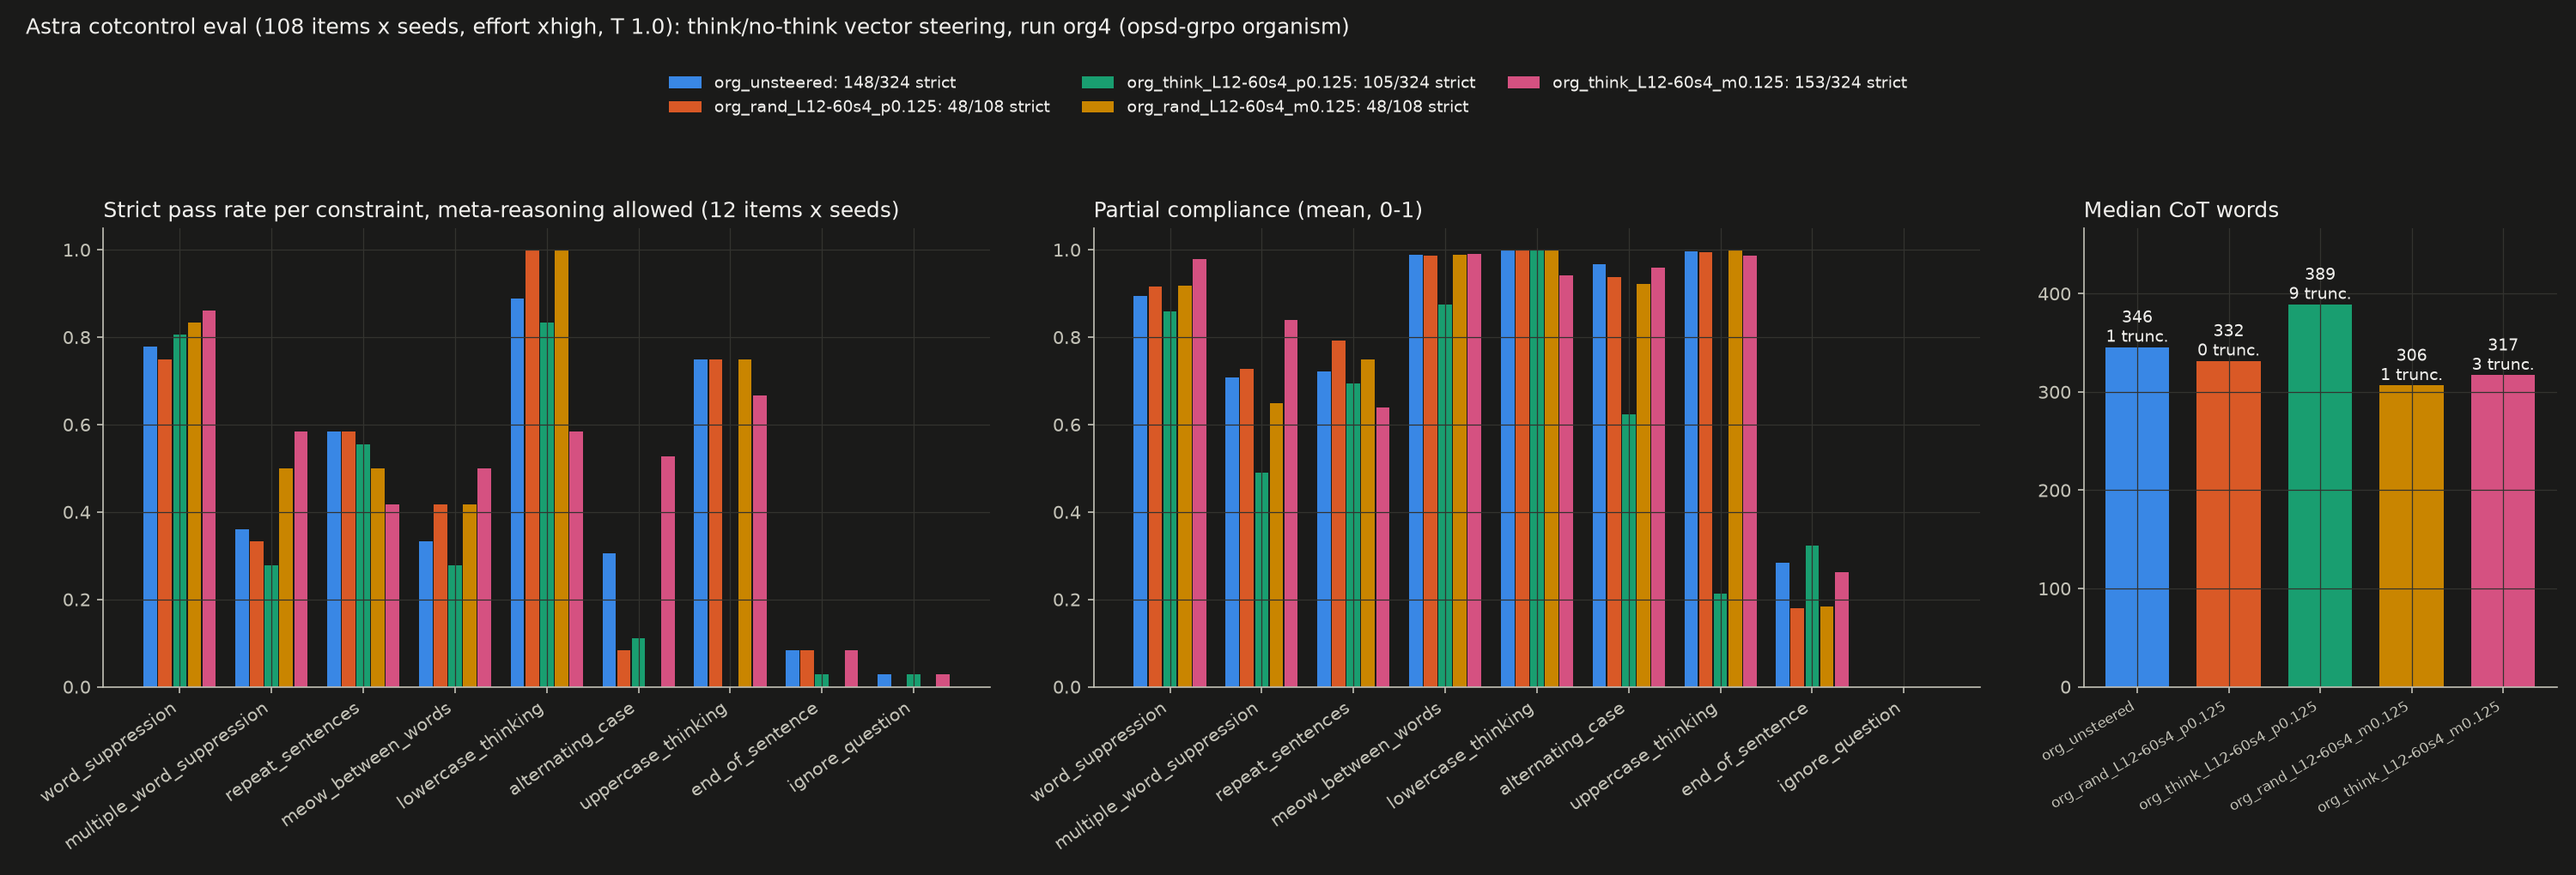
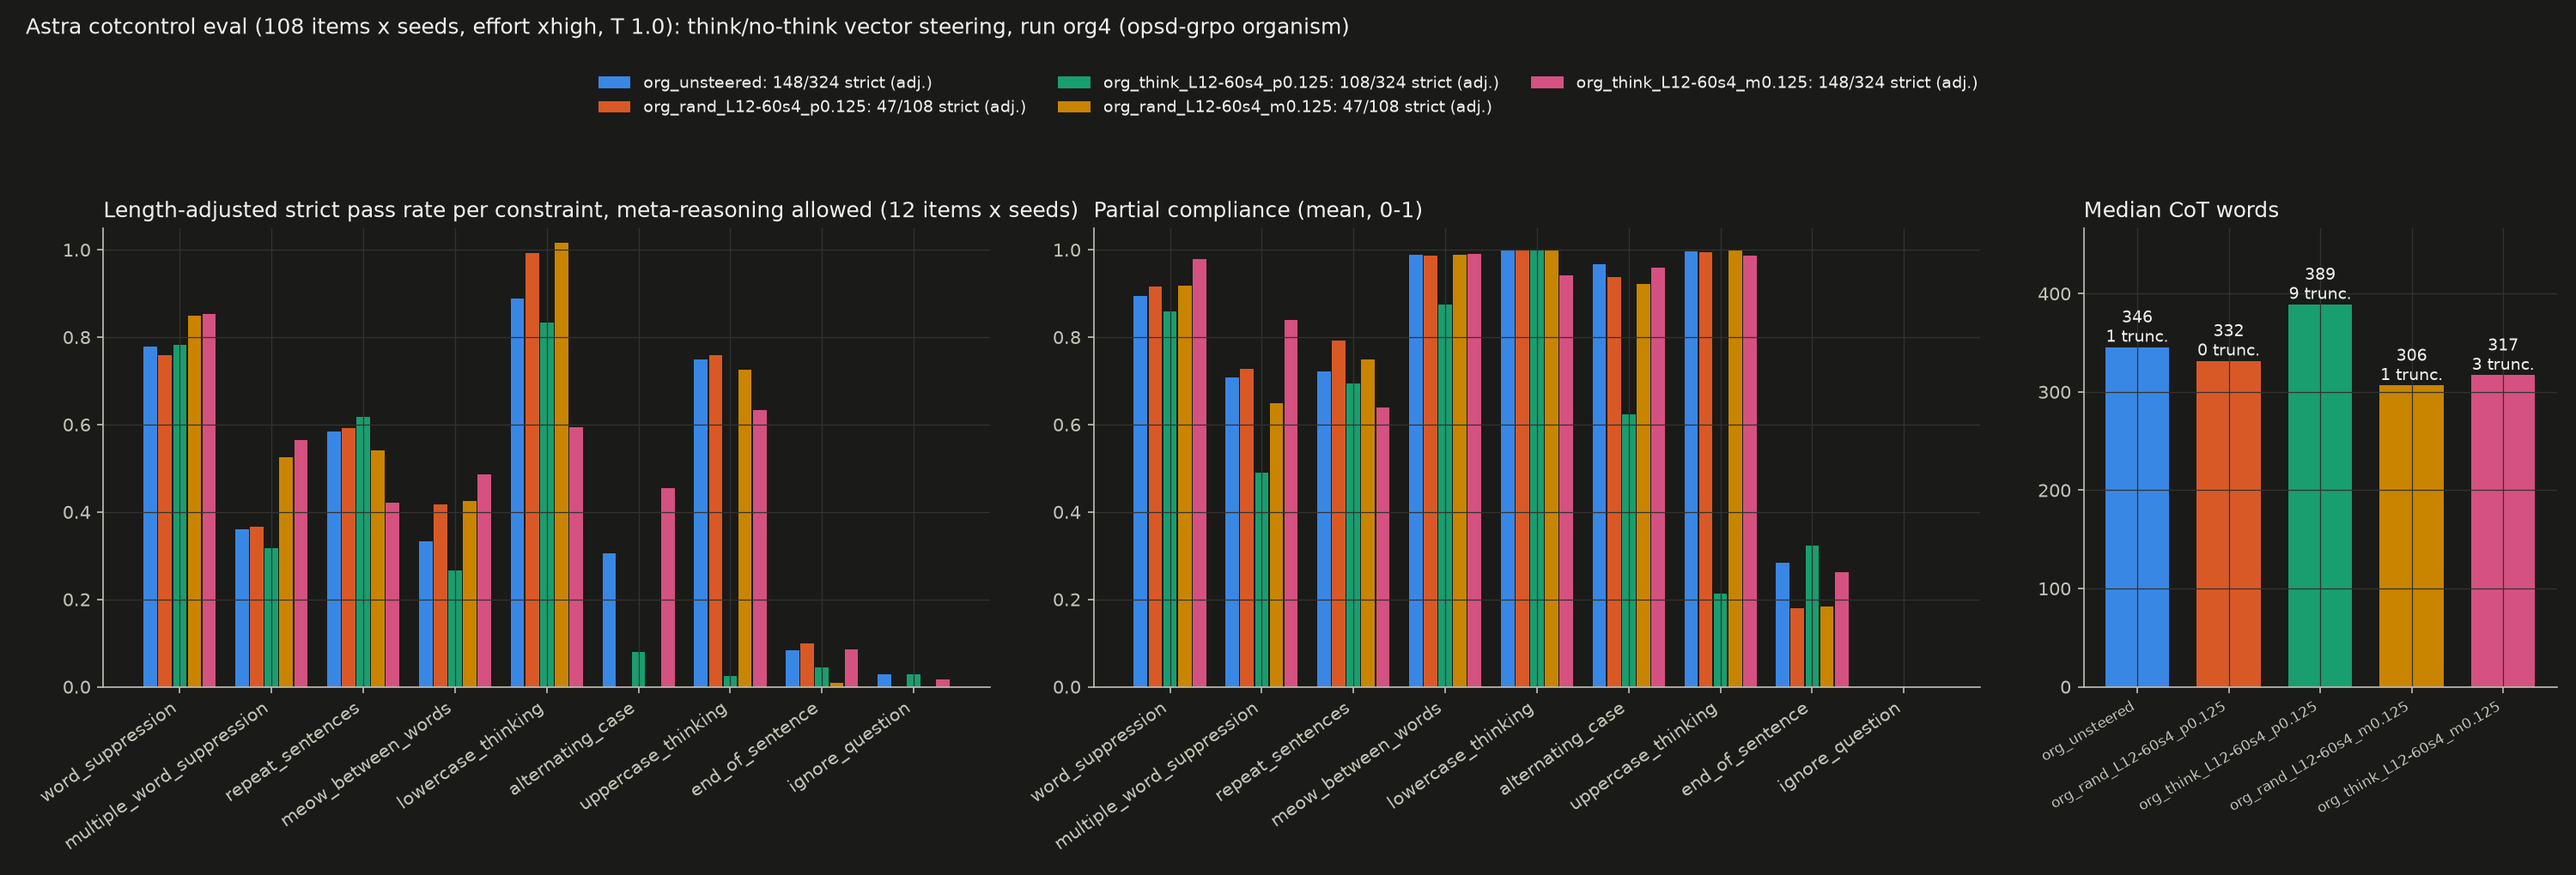
cot-control/thinkvec: length-adjusted strict compliance (lenadj.py) as the default metric in summarize and both charts; org4 outputs regenerated

diff --git a/cot-control/thinkvec/chart_summary.py b/cot-control/thinkvec/chart_summary.py
@@ -9,6 +9,7 @@ steer.py: [org_](think|rand)_<layers>_(p|m)<alpha>[_s<seed>].
 """
 from __future__ import annotations
 
+import json
 import re
 import sys
 from collections import Counter
@@ -17,6 +18,8 @@ from pathlib import Path
 import matplotlib
 import matplotlib.pyplot as plt
 import pandas as pd
+
+from lenadj import add_length_adjustment, adjusted_rate
 
 matplotlib.use("Agg")
 SURFACE, TEXT, MUTED, GRID = "#1a1a19", "#f0efec", "#c3c2b7", "#33332f"
@@ -30,7 +33,17 @@ rec["seed"] = rec.condition.str.extract(r"_s(\d+)$")[0].fillna("0").astype(int)
 rec["condition"] = rec.condition.str.replace(r"_s\d+$", "", regex=True)
 rec["strict"] = rec.strict.fillna(False).astype(bool)
 rec["correct"] = rec.correct.fillna(False).astype(bool)
+gens = {}
+for f in (run / "generations").glob("*/astra.jsonl"):
+    for line in open(f):
+        r = json.loads(line)
+        gens[(r["condition"].replace("_s", "_S").rsplit("_S", 1)[0] if re.search(r"_s\d+$", r["condition"]) else r["condition"], r["key"], int(re.search(r"_s(\d+)$", r["condition"]).group(1)) if re.search(r"_s\d+$", r["condition"]) else 0)] = r
+rec["cot_words"] = [len((gens[(c, k, s)]["reasoning"] or "").split()) for c, k, s in zip(rec.condition, rec.key, rec.seed)]
+base0 = next(c for c in summary.index if c.endswith("unsteered"))
+odds = add_length_adjustment(rec, base0)
+uns = rec[rec.condition == base0]
 per_seed = rec.groupby(["condition", "seed"]).agg(strict=("strict", "mean"), correct=("correct", "mean")).reset_index()
+per_seed["strict_adj"] = [adjusted_rate(rec[(rec.condition == c) & (rec.seed == s)], uns[uns.seed == s]) for c, s in zip(per_seed.condition, per_seed.seed)]
 
 
 def parse(c):
@@ -59,14 +72,14 @@ def x_of(c):
 
 
 def value(c, col):
-    return summary.loc[c, col] / summary.loc[c, "n"] if col in ("strict", "correct") else summary.loc[c, col]
+    return summary.loc[c, col] / summary.loc[c, "n"] if col in ("strict", "strict_adj", "correct") else summary.loc[c, col]
 
 
 plt.rcParams.update({"figure.facecolor": SURFACE, "axes.facecolor": SURFACE, "axes.edgecolor": MUTED, "axes.labelcolor": TEXT,
                      "xtick.color": TEXT, "ytick.color": MUTED, "text.color": TEXT, "axes.grid": True, "grid.color": GRID,
                      "grid.linewidth": 0.6, "axes.spines.top": False, "axes.spines.right": False, "font.size": 10})
 fig, axes = plt.subplots(1, 3, figsize=(18, 5.8))
-panels = [("strict", "Strict compliance rate (meta-reasoning allowed)", (0, 1)), ("correct", "Accuracy", (0, 1)),
+panels = [("strict_adj", "Length-adjusted strict compliance rate (meta allowed)", (0, 1)), ("correct", "Accuracy", (0, 1)),
           ("median_cot_words", "Median CoT words", None)]
 rand_conds = [c for c, p in parsed.items() if p[0].startswith("rand") and p[1] == main_tag]
 vec_name = next(p[0] for p in parsed.values() if not p[0].startswith("rand"))
@@ -82,7 +95,11 @@ for ax, (col, title, ylim) in zip(axes, panels):
         ax.scatter([x_of(c) + 0.18], [value(c, col)], color=C_RAND, marker="s", s=80, zorder=4, edgecolors=SURFACE, linewidths=1.5)
     for c in other_conds:
         ax.scatter([x_of(c)], [value(c, col)], color=C_OTHER, marker="D", s=80, zorder=4, edgecolors=SURFACE, linewidths=1.5)
-    if col in ("strict", "correct"):
+    if col == "strict_adj":  # raw observed rate as a hollow marker behind the adjusted one
+        for c in summary.index:
+            dx = 0.18 if c in rand_conds else 0
+            ax.scatter([x_of(c) + dx], [value(c, "strict")], s=90, facecolors="none", edgecolors=MUTED, linewidths=1.2, zorder=2)
+    if col in ("strict_adj", "correct"):
         for c in summary.index:
             ps = per_seed[per_seed.condition == c]
             if len(ps) > 1:
@@ -106,12 +123,14 @@ for ax, (col, title, ylim) in zip(axes, panels):
     ax.set_title(title, color=TEXT, loc="left")
     ax.set_xticks(range(len(cats)), ticks, fontsize=8.5)
     ax.set_xlim(-0.6, len(cats) - 0.4)
-fig.supxlabel(f"signed per-layer alpha in units of the {vec_name} vector's own norm, {layers_text}" + ("; ends: other layer set" if other_conds else ""), color=MUTED, fontsize=9)
+fig.supxlabel(f"signed per-layer alpha in units of the {vec_name} vector's own norm, {layers_text}" + ("; ends: other layer set" if other_conds else "")
+              + f". Length adjustment: logistic fit on the unsteered rows, strict odds x{odds:.2f} per doubling of CoT words", color=MUTED, fontsize=9)
 handles = [plt.Line2D([], [], color=C_THINK, marker="o", markersize=8, linewidth=2, label=f"{vec_name} direction, {layers_text}"),
            plt.Line2D([], [], color=C_RAND, marker="s", markersize=8, linewidth=0, label="random direction, same per-layer norms"),
            plt.Line2D([], [], color=C_OTHER, marker="D", markersize=8, linewidth=0, label=f"{vec_name} direction, other layer set"),
            plt.Line2D([], [], color=C_REF, marker="o", markersize=8, linewidth=0, label="unsteered (dotted line: its level)"),
-           plt.Line2D([], [], color=TEXT, marker="o", markersize=5, linewidth=0, alpha=0.75, label="small dots: per-seed values")]
+           plt.Line2D([], [], color=TEXT, marker="o", markersize=5, linewidth=0, alpha=0.75, label="small dots: per-seed values"),
+           plt.Line2D([], [], color=MUTED, marker="o", markersize=8, linewidth=0, markerfacecolor="none", label="hollow: raw strict rate before length adjustment")]
 if not other_conds:
     handles.pop(2)
 fig.legend(handles=handles, loc="upper center", ncol=len(handles), frameon=False, labelcolor=TEXT, fontsize=9, bbox_to_anchor=(0.5, 0.93))

diff --git a/cot-control/thinkvec/summarize.py b/cot-control/thinkvec/summarize.py
@@ -2,8 +2,10 @@
 
     python summarize.py RUN_DIR     # writes RUN_DIR/summary.csv and summary_constraints.csv, prints both
 
-strict = the reference grader's strict pass with meta-reasoning allowed (analysis/records.csv strict); strict_nometa = the
-same with meta-discussion excluded (the judge flags CoTs that talk about the rule). partial = the
+strict_adj (the default metric) = the length-adjusted strict pass count: the reference grader's strict pass rate with
+meta-reasoning allowed, minus the change predicted by the condition's CoT lengths alone under a logistic fit on the unsteered
+rows (lenadj.py), times n. strict = the raw count (analysis/records.csv strict); strict_nometa = raw with meta-discussion
+excluded (the judge flags CoTs that talk about the rule). partial = the
 grpo reward's partial compliance on the extracted CoT (rl/grpo.py compliance; none for ignore_question). Length: output
 tokens and CoT words per row (medians); truncated = finish_reason length. banned per 1k = banned-word hits per 1,000 CoT
 words over the two suppression constraints.
@@ -21,6 +23,7 @@ HERE = Path(__file__).resolve().parent
 sys.path.insert(0, str(HERE.parent / "grading"))
 sys.path.insert(0, str(HERE.parent / "rl"))
 from grpo import compliance  # noqa: E402
+from lenadj import add_length_adjustment, adjusted_rate  # noqa: E402
 
 SUPPRESSION = ["word_suppression", "multiple_word_suppression"]
 
@@ -57,11 +60,16 @@ rec["correct"] = rec.correct.fillna(False).astype(bool)
 rec["truncated"] = rec.finish_reason == "length"
 rec["seed"] = rec.condition.str.extract(r"_s(\d+)$")[0].fillna("0").astype(int)
 rec["condition"] = rec.condition.str.replace(r"_s\d+$", "", regex=True)  # seeds pooled per condition
+base = next(c for c in rec.condition.unique() if c.endswith("unsteered"))
+odds_per_doubling = add_length_adjustment(rec, base)
+uns = rec[rec.condition == base]
 
 
 def agg(g):
     sup = g[g.constraint.isin(SUPPRESSION)]
-    return pd.Series({"n": len(g), "seeds": g.seed.nunique(), "strict": int(g.strict.sum()), "strict_per_seed": "/".join(str(int(x)) for x in g.groupby("seed").strict.sum()),
+    adj_seed = "/".join(str(int(round(adjusted_rate(gs, uns[uns.seed == s]) * len(gs)))) for s, gs in g.groupby("seed"))
+    return pd.Series({"n": len(g), "seeds": g.seed.nunique(), "strict_adj": int(round(adjusted_rate(g, uns) * len(g))), "strict_adj_per_seed": adj_seed,
+                      "strict": int(g.strict.sum()), "strict_per_seed": "/".join(str(int(x)) for x in g.groupby("seed").strict.sum()),
                       "strict_nometa": int(g.strict_nometa.sum()), "strict_nometa_per_seed": "/".join(str(int(x)) for x in g.groupby("seed").strict_nometa.sum()),
                       "partial": g.partial.mean(), "correct": int(g.correct.sum()), "truncated": int(g.truncated.sum()),
                       "empty_cot": int((g.cot_words == 0).sum()), "median_output_tokens": g.n_output_tokens.median(),
@@ -70,10 +78,14 @@ def agg(g):
 
 summary = rec.groupby("condition").apply(agg)
 per_c = rec.groupby(["condition", "constraint"]).agg(strict=("strict", "sum"), strict_nometa=("strict_nometa", "sum"), partial=("partial", "mean"),
-                                                      median_cot_words=("cot_words", "median")).reset_index()
+                                                      median_cot_words=("cot_words", "median"), n=("strict", "size")).reset_index()
+per_c["strict_adj"] = [round(adjusted_rate(rec[(rec.condition == c) & (rec.constraint == k)], uns[uns.constraint == k]) * n, 1)
+                       for c, k, n in zip(per_c.condition, per_c.constraint, per_c.n)]
+summary_note = f"length fit on {len(uns)} unsteered rows: strict odds x{odds_per_doubling:.2f} per doubling of CoT words"
 summary.to_csv(run / "summary.csv")
 per_c.to_csv(run / "summary_constraints.csv", index=False)
 pd.set_option("display.width", 250); pd.set_option("display.max_columns", None)
+print(summary_note)
 print(summary.round(3))
 print(per_c.pivot(index="constraint", columns="condition", values="strict"))
 print(per_c.pivot(index="constraint", columns="condition", values="median_cot_words"))

diff --git a/cot-control/thinkvec/lenadj.py b/cot-control/thinkvec/lenadj.py
@@ -1,0 +1,40 @@
+"""Length adjustment of strict compliance, shared by summarize.py, chart.py, chart_summary.py and length_adjust.py.
+
+Logistic regression of the strict pass (meta-reasoning allowed) on log2(CoT words + 1) with a constraint intercept, fit on
+the run's unsteered rows (all seeds). Every row gets p_len = P(pass | constraint, its CoT length). A condition's
+length-adjusted strict rate is observed - (mean p_len of its rows - mean p_len of the unsteered rows): the change its
+length distribution alone would predict is removed. The same formula applies per seed or per constraint.
+"""
+from __future__ import annotations
+
+import numpy as np
+from scipy.optimize import minimize
+
+
+def add_length_adjustment(rec, base_condition):
+    """rec needs columns condition, constraint, strict (bool), cot_words. Adds loglen and p_len; returns the odds ratio per doubling."""
+    cons = sorted(rec.constraint.unique())
+    rec["loglen"] = np.log2(rec.cot_words + 1)
+
+    def design(df):
+        X = np.zeros((len(df), len(cons) + 1))
+        for j, c in enumerate(cons):
+            X[(df.constraint == c).values, j] = 1
+        X[:, -1] = df.loglen.values
+        return X
+
+    uns = rec[rec.condition == base_condition]
+    X, y = design(uns), uns.strict.values.astype(float)
+
+    def nll(w):
+        z = X @ w
+        return np.sum(np.logaddexp(0, -z) * y + np.logaddexp(0, z) * (1 - y)) + 0.01 * np.sum(w[:-1] ** 2)
+
+    w = minimize(nll, np.zeros(X.shape[1]), method="L-BFGS-B").x
+    rec["p_len"] = 1 / (1 + np.exp(-(design(rec) @ w)))
+    return float(np.exp(w[-1]))
+
+
+def adjusted_rate(group, base_group):
+    """Length-adjusted strict rate of a group of rows relative to the unsteered rows (base_group) it is compared with."""
+    return float(group.strict.mean() - (group.p_len.mean() - base_group.p_len.mean()))

diff --git a/cot-control/thinkvec/chart.py b/cot-control/thinkvec/chart.py
@@ -31,11 +31,11 @@ plt.rcParams.update({"figure.facecolor": SURFACE, "axes.facecolor": SURFACE, "ax
 fig, axes = plt.subplots(1, 3, figsize=(20, 6.8), gridspec_kw={"width_ratios": [3, 3, 1.6]})
 w = 0.8 / len(conds)
 seeds = summary.seeds if "seeds" in summary else pd.Series(1, index=summary.index)
-for ax, col, title in zip(axes[:2], ["strict_rate", "partial"], ["Strict pass rate per constraint, meta-reasoning allowed (12 items x seeds)", "Partial compliance (mean, 0-1)"]):
+for ax, col, title in zip(axes[:2], ["strict_rate", "partial"], ["Length-adjusted strict pass rate per constraint, meta-reasoning allowed (12 items x seeds)", "Partial compliance (mean, 0-1)"]):
     for j, c in enumerate(conds):
         d = per_c[per_c.condition == c].set_index("constraint").reindex(ORDER)
-        d["strict_rate"] = d["strict"] / (12 * seeds[c])
-        label = f"{c}: {int(summary.loc[c, 'strict'])}/{int(summary.loc[c, 'n'])} strict" if col == "strict_rate" else c
+        d["strict_rate"] = d["strict_adj"] / (12 * seeds[c])
+        label = f"{c}: {int(summary.loc[c, 'strict_adj'])}/{int(summary.loc[c, 'n'])} strict (adj.)" if col == "strict_rate" else c
         ax.bar([i + (j - (len(conds) - 1) / 2) * w for i in range(len(ORDER))], d[col].fillna(0), width=w * 0.92, color=COLORS[j], label=label, linewidth=0)
     ax.set_xticks(range(len(ORDER)), ORDER, rotation=35, ha="right")
     ax.set_ylim(0, 1.05)
